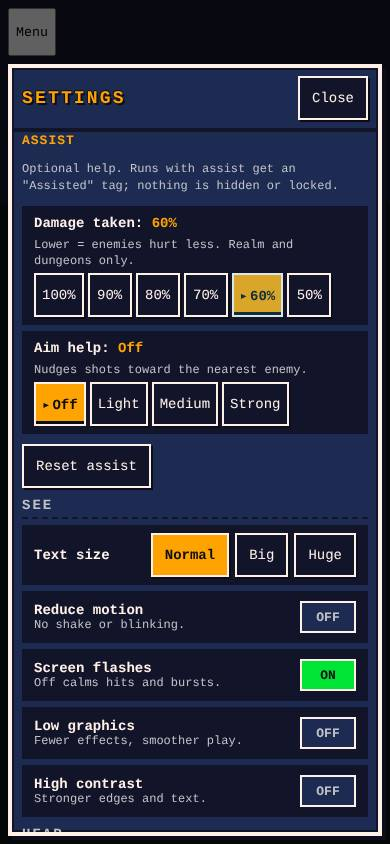
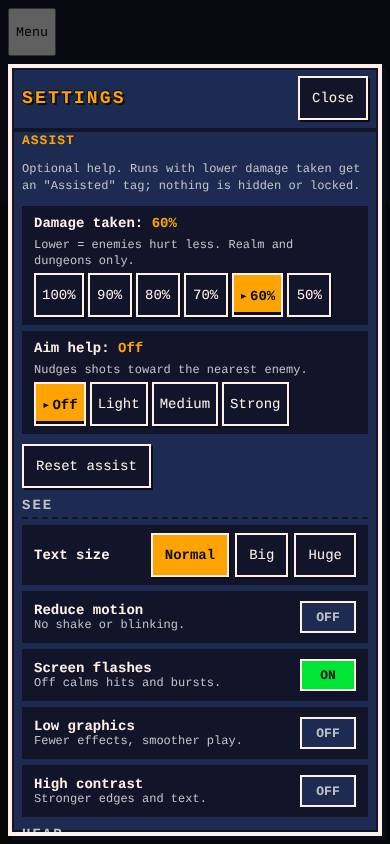
cyc4 U: register new tests (full tier) + cycle4-ui notes
Claude-Session: https://claude.ai/code/session_01YYUkojBS4xUfZdkLhLvWtx

diff --git a/game/design/beta/cycle4-ui.md b/game/design/beta/cycle4-ui.md
@@ -1,0 +1,45 @@
+# Cycle 4, U (UI/UX)
+
+Branch `cyc4-ui` (from `claude/animal-crossing-game-7z3roh` 385efc3). Own server on 9742, every browser run through /tmp/bt.sh,
+Firebase blocked (Town through `helpers.offlineStub` with `db.attempts() === 0`; other pages `blockDb`). Targeted tests only. Not pushed.
+The machine ran at load factor 4.4 to 6.5 all cycle, so each browser test took 1 to 5 minutes.
+
+## Fixed this cycle
+| Item | Fix | Check (fails before / passes after) |
+|---|---|---|
+| 1 ID-06 assist UI | `shared/mm-settings.js` + `.css`: an "Assist" sub-heading in the Play group with two step controls: **Damage taken** 100 / 90 / 80 / 70 / 60 / 50 % (6 steps) and **Aim help** Off / Light / Medium / Strong. Each is a `role=radiogroup` labelled by its visible label, and the label shows the value ("Damage taken: 80%"). The steps are `role=radio` buttons, 44x44 px minimum, with a ▸ mark on the chosen step (a shape as well as the colour). The group has one Tab stop (roving tabindex); arrows, Home and End move and select; tap or click selects. A polite live region says the new value. "Reset assist" shows only when a value is not the default. The sheet's yellow focus ring is used. `MMSettings.assistTag()` makes the "Assisted" tag (text, 12 px minimum, 2 px outline, title says what was used) and `.mm-assisted-tag` styles it; S places it on summaries. | new `cyc4-ui-assist-settings` (model + 1280x720 keyboard, 390x844 and 195x422 touch): crashes before (no model), ALL PASSED after; `shared-mm-settings`, `shared-mm-access`, `nav-settings`, `realm-settings` green |
+| 1 pref contract | Read `git show cyc4-systems:game/design/beta/cycle4-systems.md` (S, 0fbd1a3). The two match: key `mm-assist` = JSON `{dmg, aim}`, dmg in 6 steps (default 100), aim 0..3, cleaning (round, then clamp; unknown fields dropped), and only `dmg < 100` makes a run "Assisted". When the page has loaded S's `MMAssist`, the rows read and write through it; otherwise a fallback with the same rules runs (S: "or guard with typeof MMAssist"). | same test: hostile `{dmg:5, aim:"x"}` reads 50/0, 74/7 reads 70/3, and the rows call `MMAssist.write` when it is loaded |
+| 2 Realm 195x422 | `realm-ui.css` (260 px or narrower): the info line (Lv + Shards) gets its own slot in the free gap between the Board / Menu row and the XP bar, left of Leave (x 64..139, y 102..124). The mini-map thumbnail is 44x44 in the right column under Leave and still opens the 192 px map. Before this, the mini-map covered Shards and the XP bar's right end, and the zone line covered "Lv": no part of the info line could be read. | new `cyc4-ui-realm-195` (paint-order hit test at each part's centre): 2 fails before at 195x422, ALL PASSED after at 195x422 and 260x563. `realm-phone-layout`, `cyc1-ui-realm-hud`, `cyc1-danger-meter` green; sweep `PAGES=realm-world,realm-dungeon` (all viewports) and `PREFS=text-200`: 0 offenders |
+| 2 Goal at 200% zoom | `style.css` (300 px or narrower, taller than 420 px): the Realm Gate chip was `display:none` and is now a compact goal card (124 px wide) in the free left column under the bag bar, above the stick and left of the action column. The words wrap and the 44 px close button sits under them. The card steps aside while the bag, the people panel, the emote picker or the Tools tray is open. | new `cyc4-ui-town-zoom-goal`: 9 fails before (hidden at 195x422, 260x563, 300x650), ALL PASSED after; `cyc2-ui-town-narrow` caught the emote picker overlap first and is green after the follow-up commit; `cyc3-ui-town-first-visit` green; sweep `PAGES=town PREFS=text-200`: 0 offenders |
+| 2 Notebook focus | `realm-world.js`: when the quest board or the stall replaces an open notebook while focus is inside it, focus moves to the new panel's first button. Before, it fell to `<body>` because the notebook is emptied. Focus anywhere else is left alone. | new `cyc4-ui-notebook-focus` (1280x720 keyboard + 844x390 touch): 5 fails before, ALL PASSED after (includes "focus elsewhere is not stolen" and a visible ring) |
+| 4 Turnip price contrast | `main.js`: the Shop's "sells N ⭐ / 10" label keeps G's #6fbf73 and gets the same dark 3 px outline (#1c2430) as the stall's buy price. Fill vs outline is 6.9:1; before, there was no outline (the default stroke was #fff, thickness 0). | new `cyc4-ui-turnip-contrast`: 1 fail before, ALL PASSED after |
+
+## Screenshots (game/design/beta/img, all under 50 KB)
+`cyc4-ui-assist-after.jpg` (390x844 sheet; the "before" image would be the same sheet without these rows), `cyc4-ui-realm-195-before/after.jpg`,
+`cyc4-ui-town-195-goal-before/after.jpg`, `cyc4-ui-turnip-before/after.jpg`.
+
+## Design calls and deviations (please read)
+- **Assist placement.** The cycle 2 spec asked for a new "Assist" group between Text size and Sound. Instead the controls sit inside the Play
+  group under an "Assist" sub-heading, for two reasons. First, existing tests pin the group list (`shared-mm-settings`: Play,See,Hear,Help; `nav-settings`:
+  see,hear,help on the Hub; `shared-mm-access`: GROUPS titles), and those must not be weakened. Second, assist only changes the Realm and dungeons,
+  and Play is the group that pages without combat hide. The cost: on the Hub (`play:false`), assist is not shown. The Town shows it under
+  "Realm combat".
+- **Radio group, not range input.** The brief allowed either. Buttons give 44 px targets by touch and the same pattern as Text size, and the value
+  is in the visible label.
+- **Aim help vs the old "Aim assist" toggle.** Both stay. S defines aim level 0 as the old 14 degree cone, so the toggle (on/off) and the strength
+  steps add up. A later cycle could merge them into one control (proposal; needs S).
+- The death-card link "Assist options" from the cycle 2 spec is not built (S owns the Realm summary/death card; `MMSettings.assistTag` is ready for it).
+
+## Not done / open (time box: started 16:41, stopped new items at 17:18)
+- **Town desktop panel collapsed by default for NEW profiles.** Not started. The collapse CSS only exists under `PANEL_PHONE_QUERY`, so a desktop
+  collapsed state needs new desktop CSS for the chip. Many desktop tests click buttons inside the panel on a fresh profile (dailies, journal,
+  museum, map...) and would need an `expandPanel` step. Next cycle, with a list of those tests made by grep.
+- **Fish Tourney 3-line sign icon offset** (8.5 px text shift past the board edge). Not started.
+- **Keyboard / focus pass at 1280x720 and 844x390** for each page's primary flow. Not started as a pass. The new tests cover the Settings sheet (Tab, arrows, Esc,
+  focus return) and the Nexus board/stall focus at both sizes.
+- 160x284 (a 320x568 phone at 200% zoom) still hides the goal chip: there is no free column at 420 px tall or shorter. Where to? still lists the Realm.
+
+## Tests
+New, registered in `test-tiers.json` (browser, full): `cyc4-ui-assist-settings`, `cyc4-ui-realm-195`, `cyc4-ui-town-zoom-goal`,
+`cyc4-ui-notebook-focus`, `cyc4-ui-turnip-contrast`. Regression runs listed in the table, plus `run-all-tiers`, `live-safety`,
+`cyc3-ui-notebook`, `cyc2-notebook`, `cyc3-ui-town-labels`, `shared-mm-settings` at the end (results in the final report).
